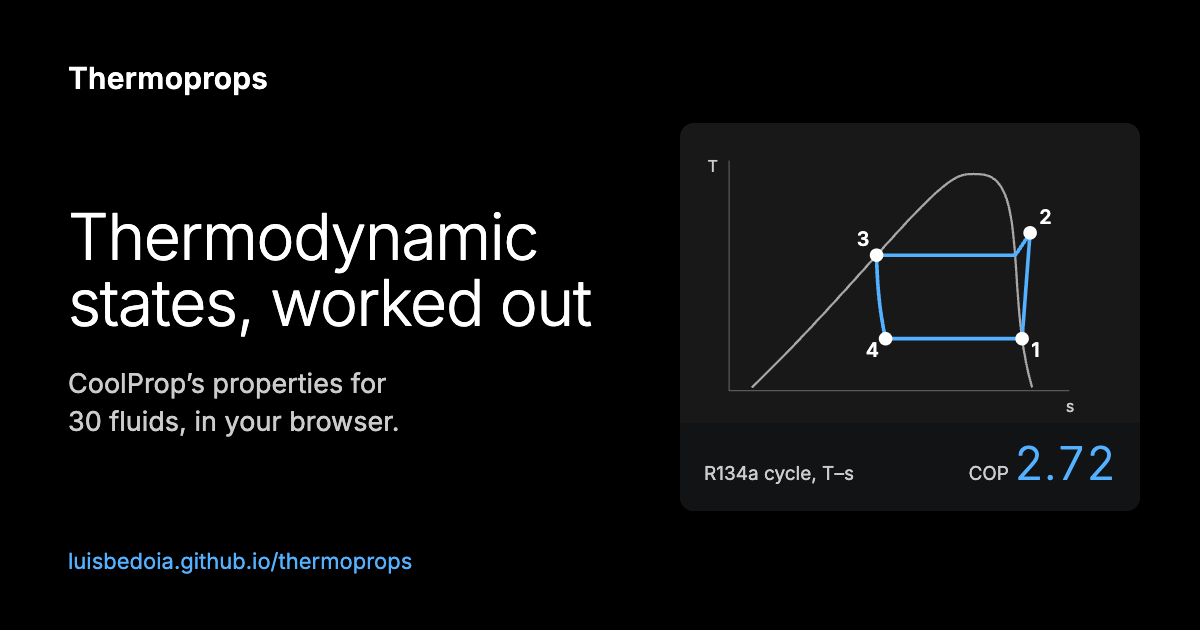
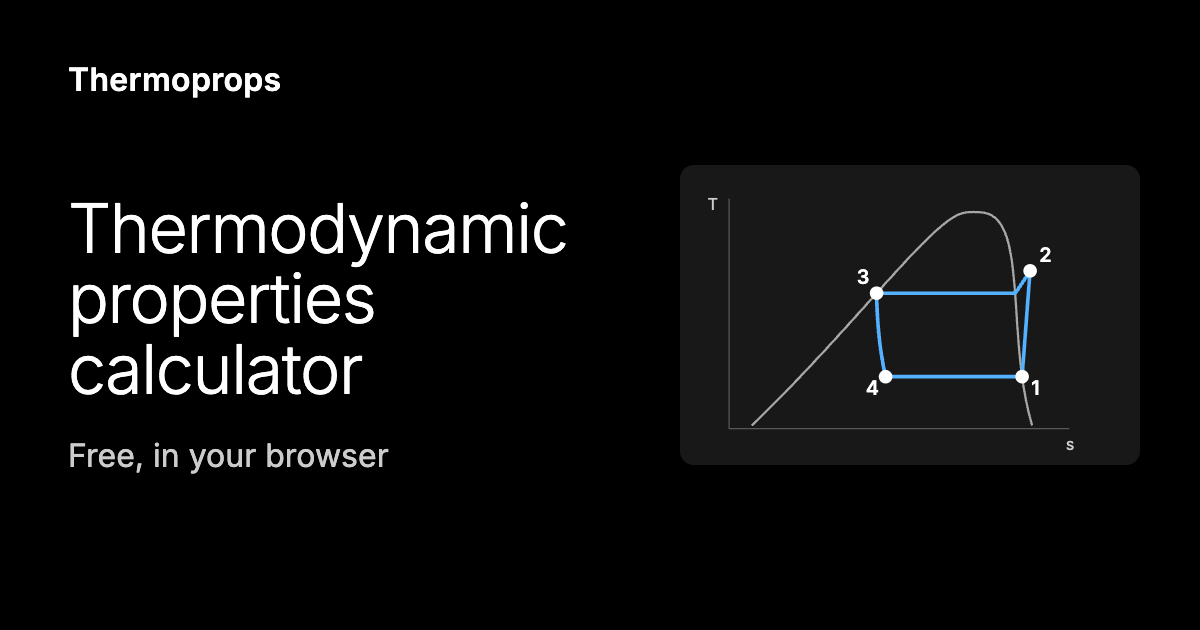
feat: update meta tags and descriptions for improved SEO; add support for Spanish OG images

diff --git a/index.html b/index.html
@@ -63,7 +63,7 @@
     <title>Thermoprops – Thermodynamic Properties Calculator</title>
     <meta
       name="description"
-      content="Free online calculator for thermodynamic properties of fluids and refrigerants. Compute temperature, pressure, enthalpy, entropy, density and more using CoolProp. Ideal for engineers and students in thermodynamics and refrigeration."
+      content="Free thermodynamic properties calculator: 30 fluids and refrigerants by CoolProp, in your browser. Write states as in your notebook and solve a whole cycle."
     />
     <meta
       name="keywords"
@@ -87,7 +87,7 @@
     />
     <meta
       property="og:description"
-      content="Free online calculator for thermodynamic properties of fluids and refrigerants powered by CoolProp WebAssembly."
+      content="Free thermodynamic properties calculator: 30 fluids and refrigerants by CoolProp, in your browser. Write states as in your notebook and solve a whole cycle."
     />
     <meta
       property="og:image"
@@ -97,7 +97,7 @@
     <meta property="og:image:height" content="630" />
     <meta
       property="og:image:alt"
-      content="Thermoprops: thermodynamic states, worked out. An R134a refrigeration cycle on a T–s chart, with its COP of 2.72."
+      content="Thermoprops, a free thermodynamic properties calculator in your browser, beside a refrigeration cycle on a T–s diagram."
     />
     <meta property="og:locale" content="en_US" />
 
@@ -109,7 +109,7 @@
     />
     <meta
       name="twitter:description"
-      content="Free online calculator for thermodynamic properties of fluids and refrigerants powered by CoolProp WebAssembly."
+      content="Free thermodynamic properties calculator: 30 fluids and refrigerants by CoolProp, in your browser. Write states as in your notebook and solve a whole cycle."
     />
     <meta
       name="twitter:image"
@@ -117,7 +117,7 @@
     />
     <meta
       name="twitter:image:alt"
-      content="Thermoprops: thermodynamic states, worked out. An R134a refrigeration cycle on a T–s chart, with its COP of 2.72."
+      content="Thermoprops, a free thermodynamic properties calculator in your browser, beside a refrigeration cycle on a T–s diagram."
     />
 
     <!-- JSON-LD Structured Data -->
@@ -127,7 +127,7 @@
         "@type": "WebApplication",
         "name": "Thermoprops",
         "url": "https://luisbedoia.github.io/thermoprops/",
-        "description": "Free online calculator for thermodynamic properties of fluids and refrigerants using CoolProp.",
+        "description": "Free thermodynamic properties calculator: 30 fluids and refrigerants by CoolProp, in your browser. Write states as in your notebook and solve a whole cycle.",
         "applicationCategory": "EngineeringApplication",
         "operatingSystem": "Any",
         "browserRequirements": "Requires a modern browser with WebAssembly support",

diff --git a/src/pages.ts b/src/pages.ts
@@ -57,15 +57,22 @@ export const DEFAULT_TITLE = tr(
 );
 
 /**
- * The landing's title and summary in the page's language. The English
- * landing keeps index.html's own; the build gives the Spanish one (/es/)
- * these.
+ * What the landing says of the app where it is not shown: its title, the
+ * summary search results and shared links show, and the words of the shared
+ * links' picture (scripts/og-image.mjs). As the landing says it: what it is
+ * (its line over the headline), then its first sentence. The build gives
+ * both landings these (scripts/postbuild.mjs); index.html keeps the English
+ * ones for the dev server.
  */
 export const LANDING = {
   title: DEFAULT_TITLE,
   description: tr(
-    "Free online calculator for thermodynamic properties of fluids and refrigerants. Compute temperature, pressure, enthalpy, entropy, density and more using CoolProp. Ideal for engineers and students in thermodynamics and refrigeration.",
-    "Calculadora gratuita en línea de propiedades termodinámicas de fluidos y refrigerantes. Calcula temperatura, presión, entalpía, entropía, densidad y más con CoolProp. Para ingenieros y estudiantes de termodinámica y refrigeración.",
+    "Free thermodynamic properties calculator: 30 fluids and refrigerants by CoolProp, in your browser. Write states as in your notebook and solve a whole cycle.",
+    "Calculadora de propiedades termodinámicas gratuita: 30 fluidos y refrigerantes con CoolProp, en tu navegador. Escribe estados como en tu cuaderno y resuelve un ciclo.",
+  ),
+  imageAlt: tr(
+    "Thermoprops, a free thermodynamic properties calculator in your browser, beside a refrigeration cycle on a T–s diagram.",
+    "Thermoprops, calculadora de propiedades termodinámicas gratuita en tu navegador, junto a un ciclo de refrigeración en un diagrama T–s.",
   ),
 };
 

diff --git a/vite.config.ts b/vite.config.ts
@@ -47,7 +47,8 @@ export default defineConfig({
         // so a reload after a deploy would show the old app. The pages are
         // public/sw-pages.js's: network first, kept for offline use.
         globPatterns: ["**/*.{js,css,svg,png,ico,wasm,woff2}"],
-        globIgnores: ["sw-pages.js"],
+        // og-image*.png: for shared links' previews, never shown by the app.
+        globIgnores: ["sw-pages.js", "og-image*.png"],
         navigateFallback: null,
         // Named for the build: a new one is fetched with each new worker.
         importScripts: [`sw-pages.js?${Date.now()}`],
